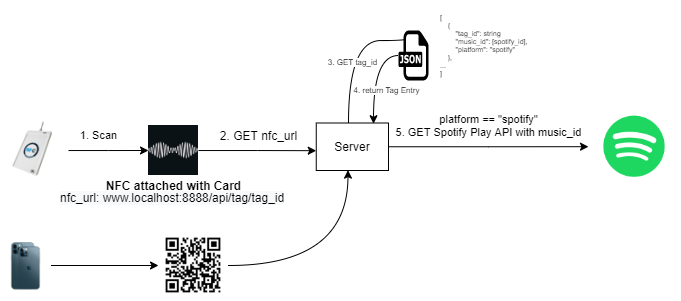
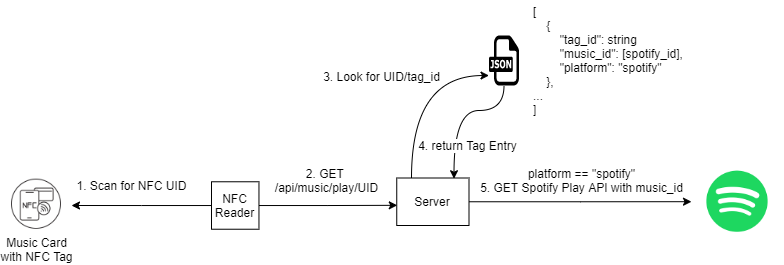
docs docs docs

diff --git a/client/src/components/pages/home/AddNewPopup.tsx b/client/src/components/pages/home/AddNewPopup.tsx
@@ -33,7 +33,7 @@ const AddNewPopup: React.FC<AddNewPopupProps> = (props: AddNewPopupProps) => {
     >
       <div className="p-5 rounded-lg">
         <div>
-          <h2>Add new Tag</h2>
+          <h2>Add New Music Card</h2>
         </div>
         <div>
           <Input
@@ -62,8 +62,8 @@ const AddNewPopup: React.FC<AddNewPopupProps> = (props: AddNewPopupProps) => {
           </div>
           <Input
             className="py-2"
-            label="Tag Id (optional)"
-            placeholder="6f60fd52-2799-4e3a-9d4b-d270ea1a2357"
+            label="Tag Id (NFC UID)"
+            placeholder="0x40x150x910x3a0x580x310x20"
             value={newTag.tagId}
             onChange={(event) =>
               setNewTag({ ...newTag, tagId: event.target.value })

diff --git a/client/src/components/common/EmptyTagCard.tsx b/client/src/components/common/EmptyTagCard.tsx
@@ -33,7 +33,7 @@ const TagCard: React.FC<EmptyTagCardProps> = (props: EmptyTagCardProps) => {
           </svg>
         </div>
         <div className="text-xs pt-2 font-semibold text-gray-500">
-          Add new Tag
+          Add New Music Card
         </div>
       </div>
     </div>

diff --git a/client/src/components/pages/home/ModifyPopup.tsx b/client/src/components/pages/home/ModifyPopup.tsx
@@ -37,7 +37,7 @@ const ModifyPopup: React.FC<ModifyPopupProps> = (props: ModifyPopupProps) => {
     >
       <div className="p-5 rounded-lg">
         <div>
-          <h2>Modify Tag</h2>
+          <h2>Modify Music Card</h2>
         </div>
         <div>
           <Input

diff --git a/nfc/pn532_read_nfc.py b/nfc/pn532_read_nfc.py
@@ -12,7 +12,7 @@ pn532.SAM_configuration()
 ONGAKU_API = "http://localhost:8888/api"
 
 
-def read_uid_from_nfc(list_hex: List[hex]) -> str:
+def conver_to_ongaku_id(list_hex: List[hex]) -> str:
     return "".join([hex(value) for value in list_hex])
 
 
@@ -34,7 +34,7 @@ if __name__ == "__main__":
             uid = pn532.read_passive_target(timeout=0.5)
             if uid is None:
                 continue
-            uid = read_uid_from_nfc(uid)
+            uid = conver_to_ongaku_id(uid)
             print(f"Card UID: {uid}")
             play_ongaku(uid)
             sleep(1)

diff --git a/README.md b/README.md
@@ -4,18 +4,20 @@
 
 Personal Vinyl Record Player  :notes:
 - Generate your own Music Cards and listen with a simple tap!
-- Every Music Card is linked to a Spotify song, playlist, or album
-  - With QR technology or NFC Tags
+- Every Music Card (NFC Tag) is linked to a Spotify song, playlist, or album
 
 *Inspired* by [Spotify Vinyl Emulator](https://www.hackster.io/mark-hank/sonos-spotify-vinyl-emulator-3be63d)
 
+## How it works?
+
 ![ongaku-play](./docs/ongaku-play.png)
 
-#### Notes
-- Use a NFC writer to save `url` in NFC cards 
-- Use a QR generator to create a QR code with `url` information
-- Tag Entries are created in the `/server/data/tags.json`
-  - Edit Tag Entries through the web interface
+1. A Music Card is pretty much a NFC Tag
+   - NFC Reader scans the Music Card to read NFC UID
+2. With the NFC UID, it makes an API call to the server to see what music to play
+3. Server will look for the `music_id` and `platform` for the associated NFC UID (tag_id)
+4. Based off the platform, it will make an API call to the associated platform API
+
 
 ## Server
 
@@ -49,8 +51,58 @@ Personal Vinyl Record Player  :notes:
 
 8. Install the project with `npm install` and run application with `npm run start`
 
+## Client
+
+### Getting Started
+
+```
+npm install
+npm run start
+```
+
+### Dashboard
+
+#### See all Music Cards
+
+![admin-dashboard](./docs/admin-dashboard.png)
+
+- Using the `tags.json` as a database
+
+#### Modify Music Card to link to a different Spotify URI
+
+
+![admin-edit](./docs/admin-edit.png)
+
+- Update the Spotify URI
+  - You don't have to do anything to the Music Card
+  - **Scan the Music Card and it will play the new tunes!**
+- Update Title
+
+#### Add new Music Card
+
+![admin-add](./docs/admin-add.png)
+
+- Tag ID is the UID of the NFC Tag
+- Note: Currently, only Spotify is supported.
+
 ## NFC
 
-### PN532 NFC Hat
+### Getting Started
+
+#### PN532 NFC Hat for Raspberry Pi
 
 - https://www.waveshare.com/wiki/PN532_NFC_HAT
+- Support for SPI, I2C, UART
+
+```
+python3 -m venv venv
+source venv/bin/activate
+pip install -r requirements.txt
+python3 pn532_read_nfc.py
+```
+
+## TODO
+- [ ] Create an Empty Tag Record when scanning an unused Music Card to modify on the Admin Dashboard
+- [ ] Mobile UI for Admin Dashboard
+- [ ] Guide for Raspberry PI setup
+- [ ] Support for other Music Platforms
